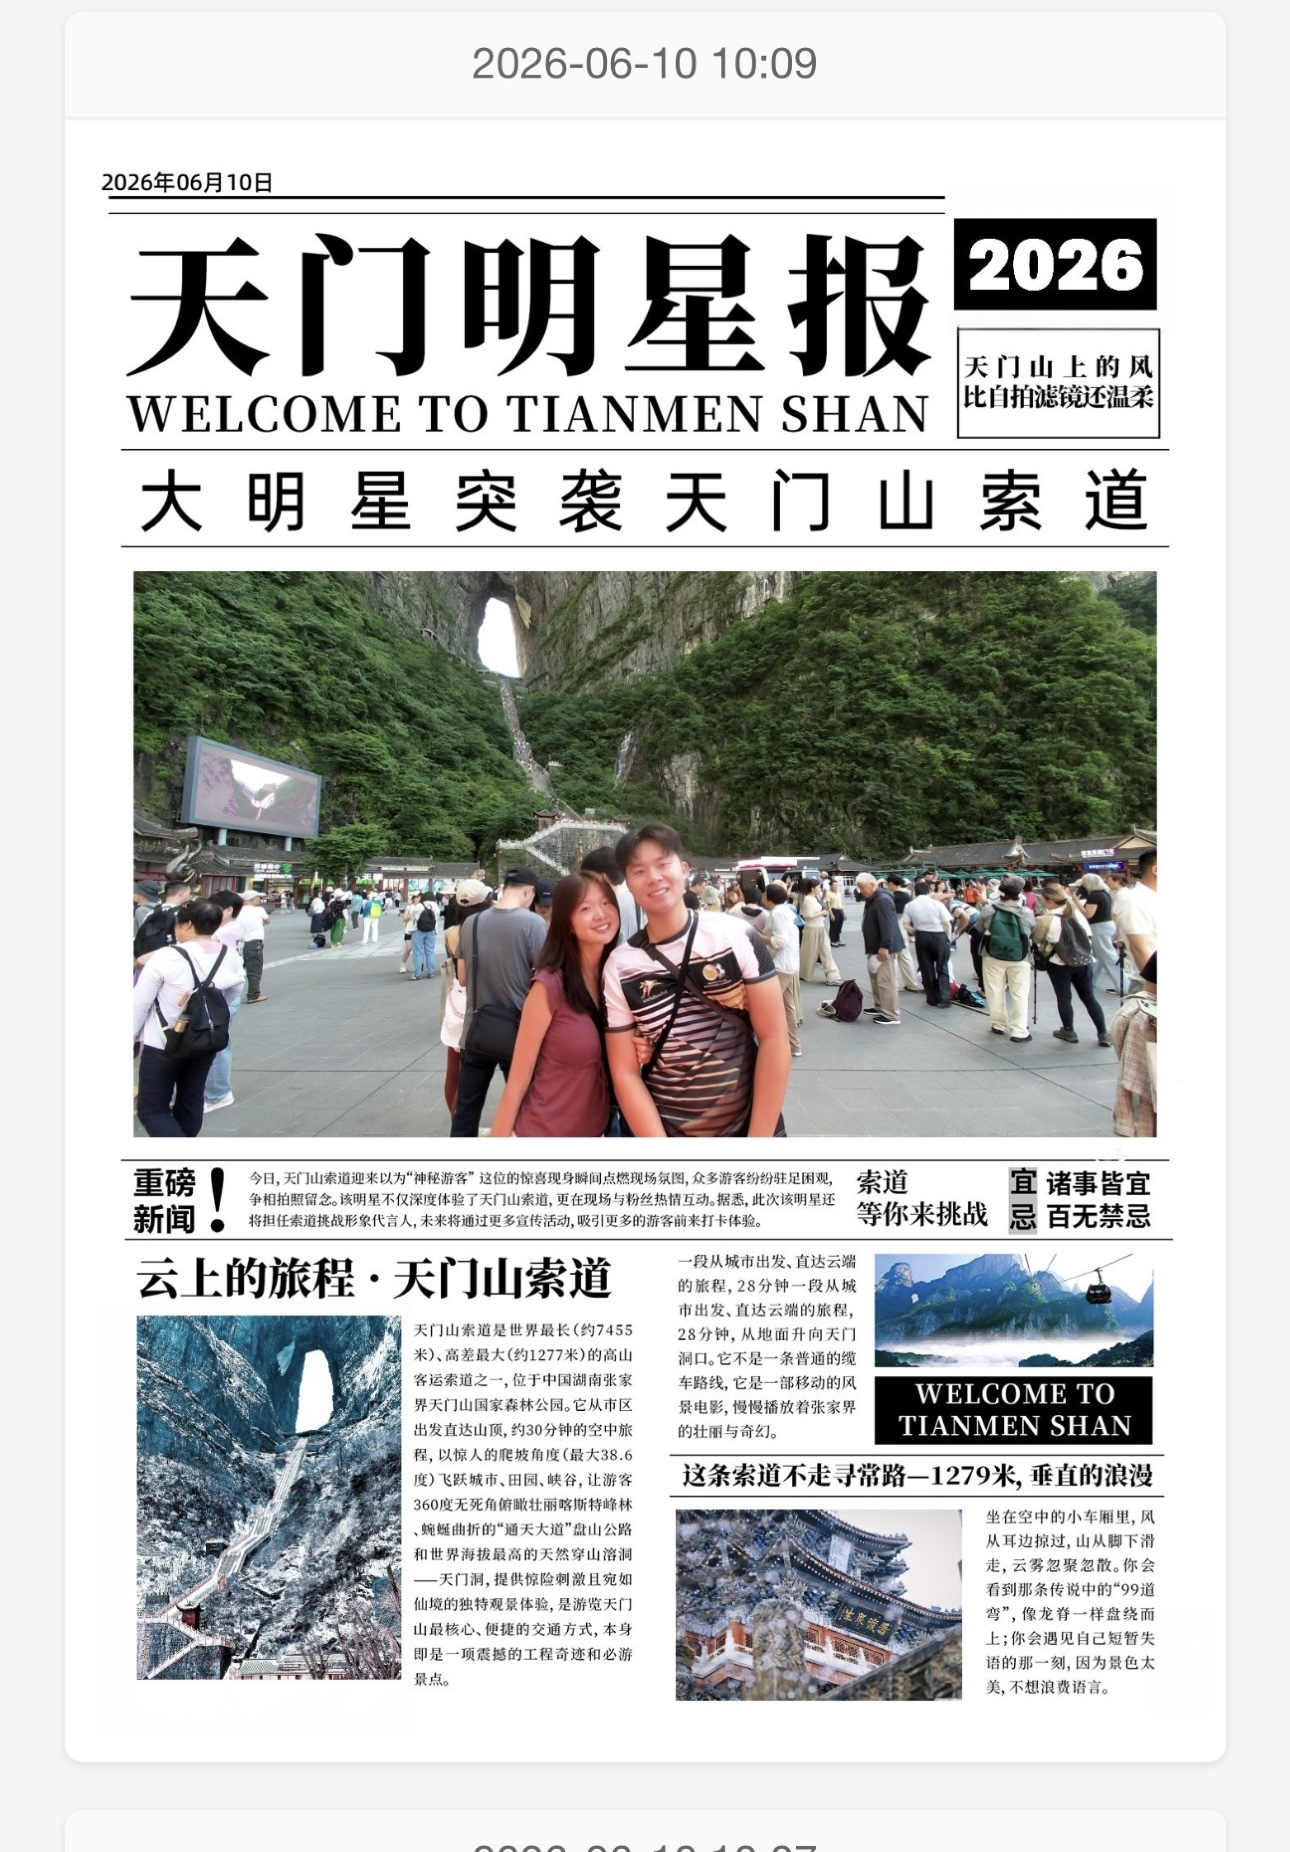
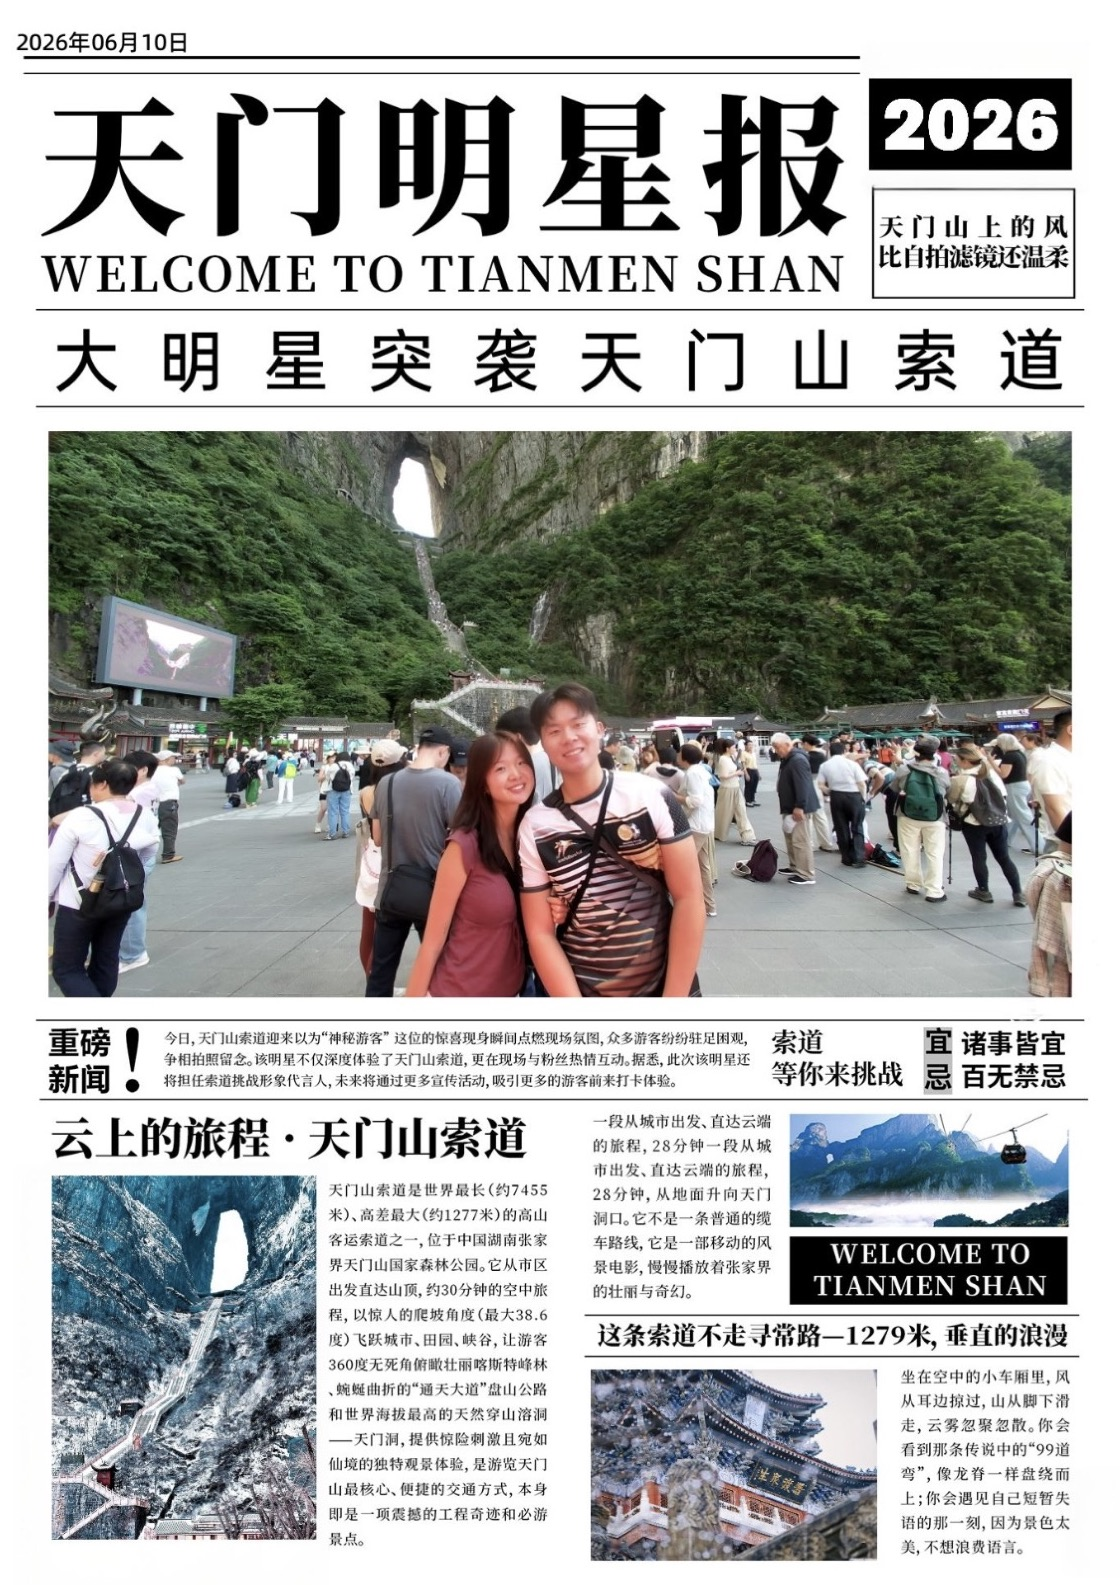
Crop the Tianmen newspaper photo to just the newspaper
Trims the phone-screenshot chrome (gray timestamp bars above and
below, side gutters) and updates its aspect ratio.

diff --git a/index.html b/index.html
@@ -1866,7 +1866,7 @@
     'images/china/china-tianmen-cave-stairs.jpg':1.5,
     'images/china/china-tianmen-cave.jpg':0.6667,
     'images/china/china-tianmen-mountain-road.jpg':0.6667,
-    'images/china/china-tianmen-photo-op.jpg':0.6965,
+    'images/china/china-tianmen-photo-op.jpg':0.7066,
     'images/china/china-tianzi-mountain-pavilion.jpg':1.5,
     'images/china/china-zhangjiajie-canyon-ledge.jpg':0.6667,
     'images/china/china-zhangjiajie-canyon-temple.jpg':0.6667,
